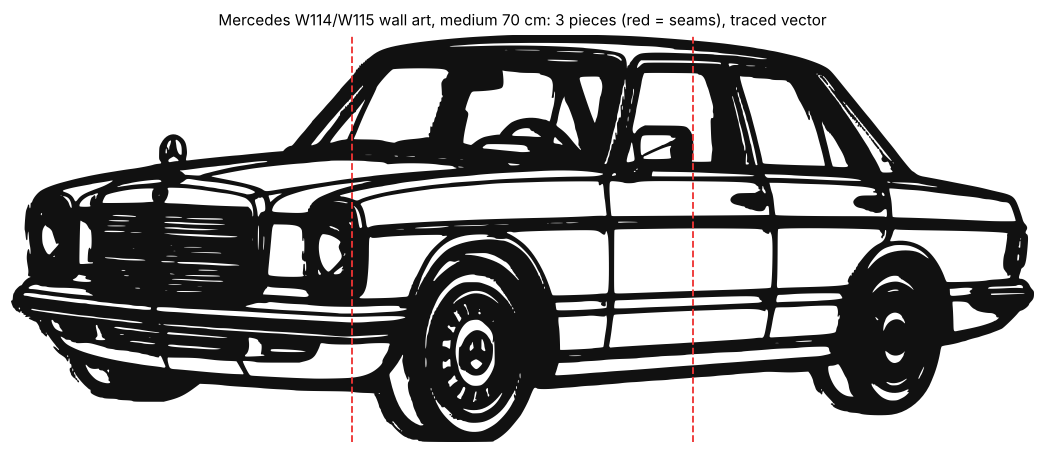
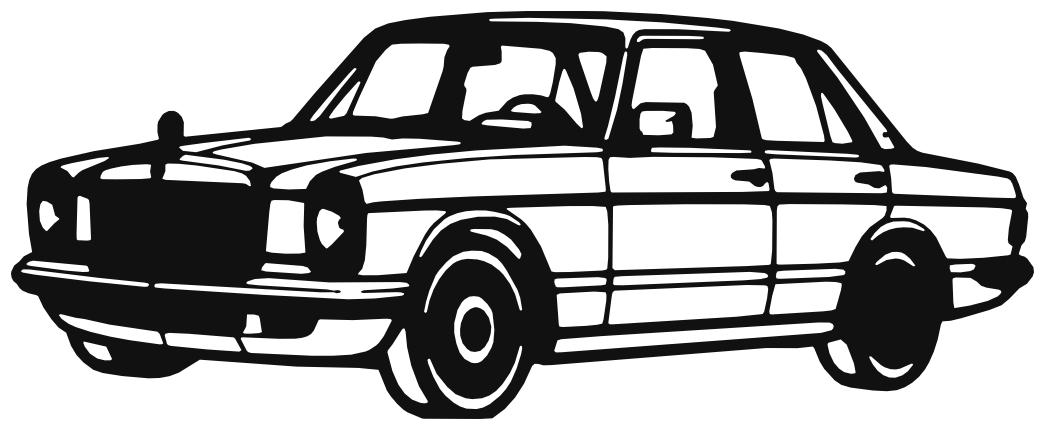
Mercedes wall art: simplified vector
Claude-Session: https://claude.ai/code/session_01SotwDHT1STTNJZZpPikuEu

Changed region(s): [[0.0, 0.0, 1.0, 0.9977], [0.8268, 0.6953, 0.888, 0.7256], [0.0, 0.4233, 0.0306, 0.4535]]

diff --git a/student_pack/mb_simplify.py b/student_pack/mb_simplify.py
@@ -1,0 +1,33 @@
+import sys, numpy as np, cv2, pickle
+from PIL import Image
+from shapely import affinity
+sys.path.insert(0,'/home/user/-sharpseek-api/student_pack')
+from trace import mask_to_geom
+blur,thr,close,hole,opn,simp=map(float,sys.argv[1:7]); out=sys.argv[7]
+im=np.array(Image.open('/root/.claude/uploads/be9cc890-d9f9-58e5-abf5-b88979c7d61a/b5d49ff4-image.png').convert('L'))[150:395,460:1070]
+U=4; up=cv2.resize(im,None,fx=U,fy=U,interpolation=cv2.INTER_CUBIC)
+up=cv2.GaussianBlur(up,(0,0),blur)
+m=(up<thr).astype(np.uint8)
+k=lambda r: cv2.getStructuringElement(cv2.MORPH_ELLIPSE,(2*int(r)+1,2*int(r)+1))
+m=cv2.morphologyEx(m,cv2.MORPH_CLOSE,k(close))
+inv=1-m; n,lab,st,_=cv2.connectedComponentsWithStats(inv,connectivity=4)
+for i in range(1,n):
+    if st[i,4]<hole: m[lab==i]=1
+m=cv2.morphologyEx(m,cv2.MORPH_OPEN,k(opn))
+n,lab,st,_=cv2.connectedComponentsWithStats(m,connectivity=8)
+keep=np.zeros_like(m)
+for i in range(1,n):
+    if st[i,4]>=3000: keep|=(lab==i).astype(np.uint8)
+g=mask_to_geom(keep.astype(bool),1.0,keep.shape[0]); b=g.bounds
+g=affinity.translate(g,-b[0],-b[1]).simplify(simp)
+pickle.dump(g,open('/tmp/claude-0/mb/mb_geom2.pkl','wb'))
+import matplotlib; matplotlib.use('Agg'); import matplotlib.pyplot as plt
+from matplotlib.patches import PathPatch; from matplotlib.path import Path
+fig,ax=plt.subplots(figsize=(12,5.2),dpi=110)
+for p in (g.geoms if hasattr(g,'geoms') else [g]):
+    v=list(p.exterior.coords); c=[1]+[2]*(len(v)-2)+[79]
+    for i in p.interiors:
+        q=list(i.coords); v+=q; c+=[1]+[2]*(len(q)-2)+[79]
+    ax.add_patch(PathPatch(Path(v,c),fc='#111',ec='none'))
+ax.set_xlim(0,g.bounds[2]);ax.set_ylim(0,g.bounds[3]);ax.set_aspect('equal');ax.axis('off')
+fig.savefig(out,bbox_inches='tight',facecolor='white'); print('comps',len(g.geoms) if hasattr(g,'geoms') else 1)
